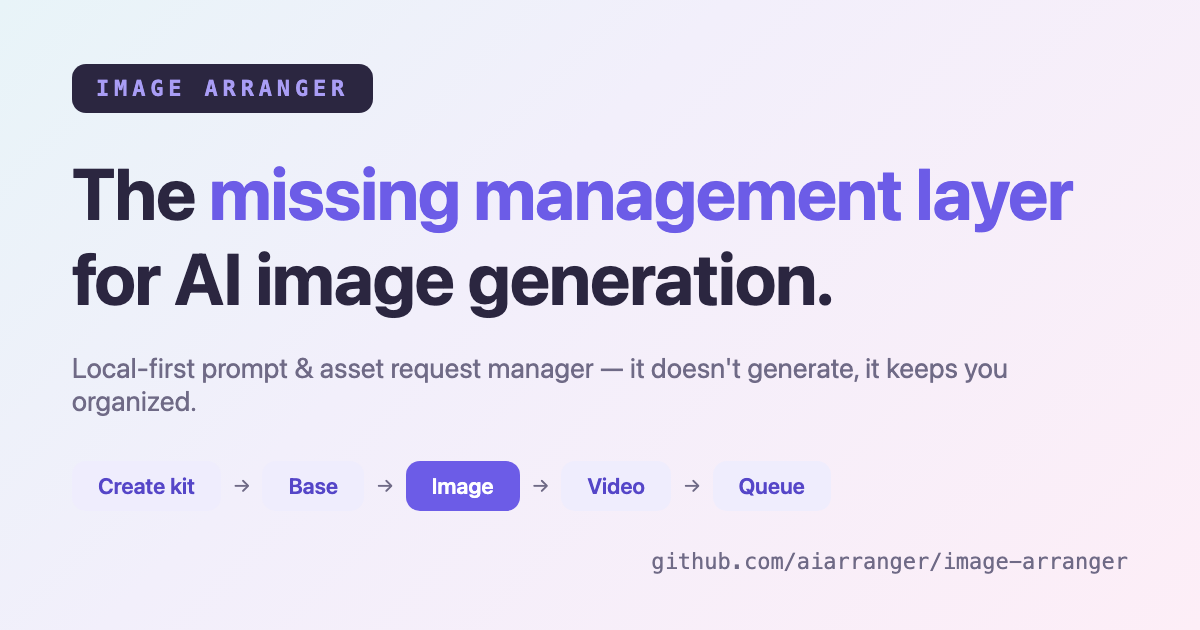
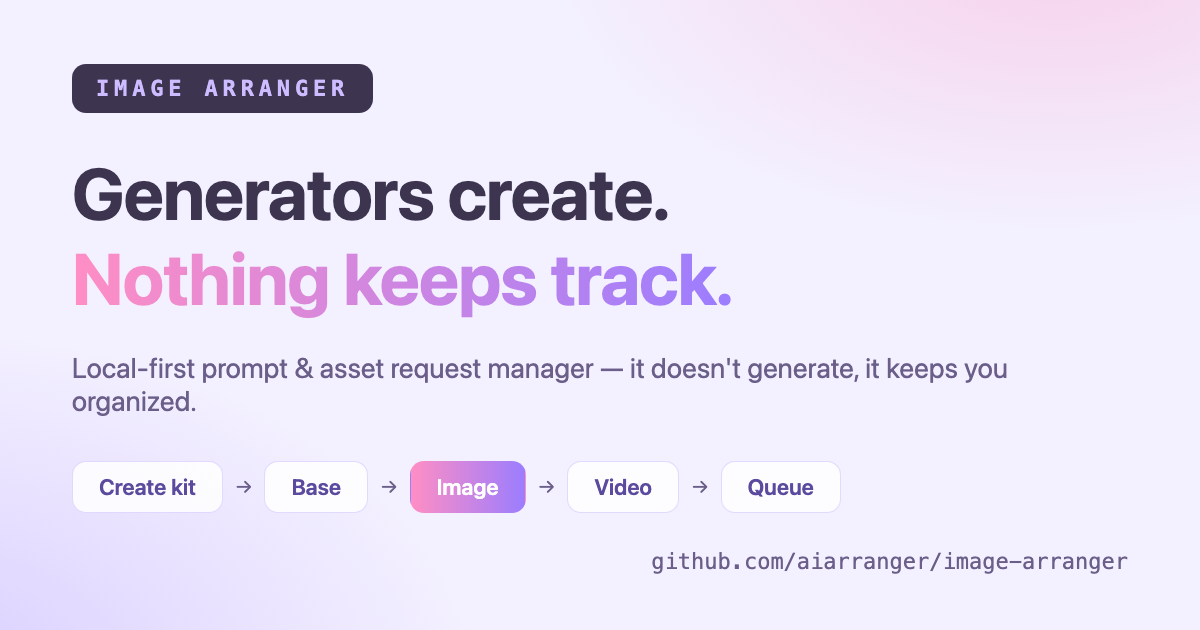
docs: regenerate OGP social card to match the redesigned LP brand
Problem-first copy, paper/ink palette, accent gradient — mirrors lp.css
tokens; regeneration command documented in ogp-source.html.

diff --git a/docs/ogp-source.html b/docs/ogp-source.html
@@ -1,5 +1,7 @@
 <!DOCTYPE html>
-<!-- Source for ogp.png (1200x630). Render in a browser and capture the #card region. -->
+<!-- Source for ogp.png (1200x630). Render in a browser and capture the #card region.
+     Regenerate: "Google Chrome" --headless=new --screenshot=ogp.png --window-size=1200,630 --hide-scrollbars file://$(pwd)/ogp-source.html
+     Palette mirrors docs/lp.css tokens (paper/ink/accent-grad). -->
 <html lang="en">
 <head>
 <meta charset="UTF-8">
@@ -8,35 +10,42 @@
   body { background: #555; }
   #card {
     position: fixed; top: 0; left: 0; width: 1200px; height: 630px; overflow: hidden;
-    background: linear-gradient(135deg, #e8f4f8 0%, #f2effb 40%, #fdeef7 100%);
+    background:
+      radial-gradient(720px 420px at 88% -10%, rgba(255, 142, 196, 0.32), transparent 70%),
+      radial-gradient(820px 520px at -8% 110%, rgba(155, 125, 255, 0.30), transparent 70%),
+      #f3f0ff;
     font-family: -apple-system, BlinkMacSystemFont, "Segoe UI", sans-serif;
-    color: #2b2640; padding: 64px 72px;
+    color: #3d3550; padding: 64px 72px;
   }
   .chip {
-    display: inline-block; background: #2b2640; color: #a99df5;
+    display: inline-block; background: #3d3550; color: #cdbcff;
     font-family: "SF Mono", Menlo, monospace; font-size: 22px; letter-spacing: .22em;
     padding: 12px 24px; border-radius: 14px; font-weight: 700; margin-bottom: 38px;
   }
   h1 { font-size: 72px; line-height: 1.18; letter-spacing: -0.01em; margin-bottom: 30px; }
-  h1 .em { color: #6c5ce7; }
-  p { font-size: 28px; color: #6f6a86; margin-bottom: 44px; }
+  h1 .em {
+    background: linear-gradient(90deg, #ff8ec4, #9b7dff);
+    -webkit-background-clip: text; background-clip: text; color: transparent;
+  }
+  p { font-size: 28px; color: #6b5f8a; margin-bottom: 44px; }
   .tabs { display: flex; gap: 12px; align-items: center; }
   .t {
     font-size: 22px; font-weight: 600; padding: 12px 26px; border-radius: 14px;
-    background: #efedfd; color: #5546c8;
+    background: rgba(255, 255, 255, 0.86); color: #5b4a9e;
+    border: 1px solid rgba(155, 125, 255, 0.28);
   }
-  .t.on { background: #6c5ce7; color: #fff; }
-  .arrow { color: #6f6a86; font-size: 20px; }
+  .t.on { background: linear-gradient(90deg, #ff8ec4, #9b7dff); color: #fff; border-color: transparent; }
+  .arrow { color: #6b5f8a; font-size: 20px; }
   .corner {
     position: absolute; right: 72px; bottom: 56px; font-family: "SF Mono", Menlo, monospace;
-    font-size: 22px; color: #6f6a86;
+    font-size: 22px; color: #6b5f8a;
   }
 </style>
 </head>
 <body>
 <div id="card">
   <div class="chip">IMAGE ARRANGER</div>
-  <h1>The <span class="em">missing management layer</span><br>for AI image generation.</h1>
+  <h1>Generators create.<br><span class="em">Nothing keeps track.</span></h1>
   <p>Local-first prompt &amp; asset request manager — it doesn't generate, it keeps you organized.</p>
   <div class="tabs">
     <span class="t">Create kit</span><span class="arrow">→</span>